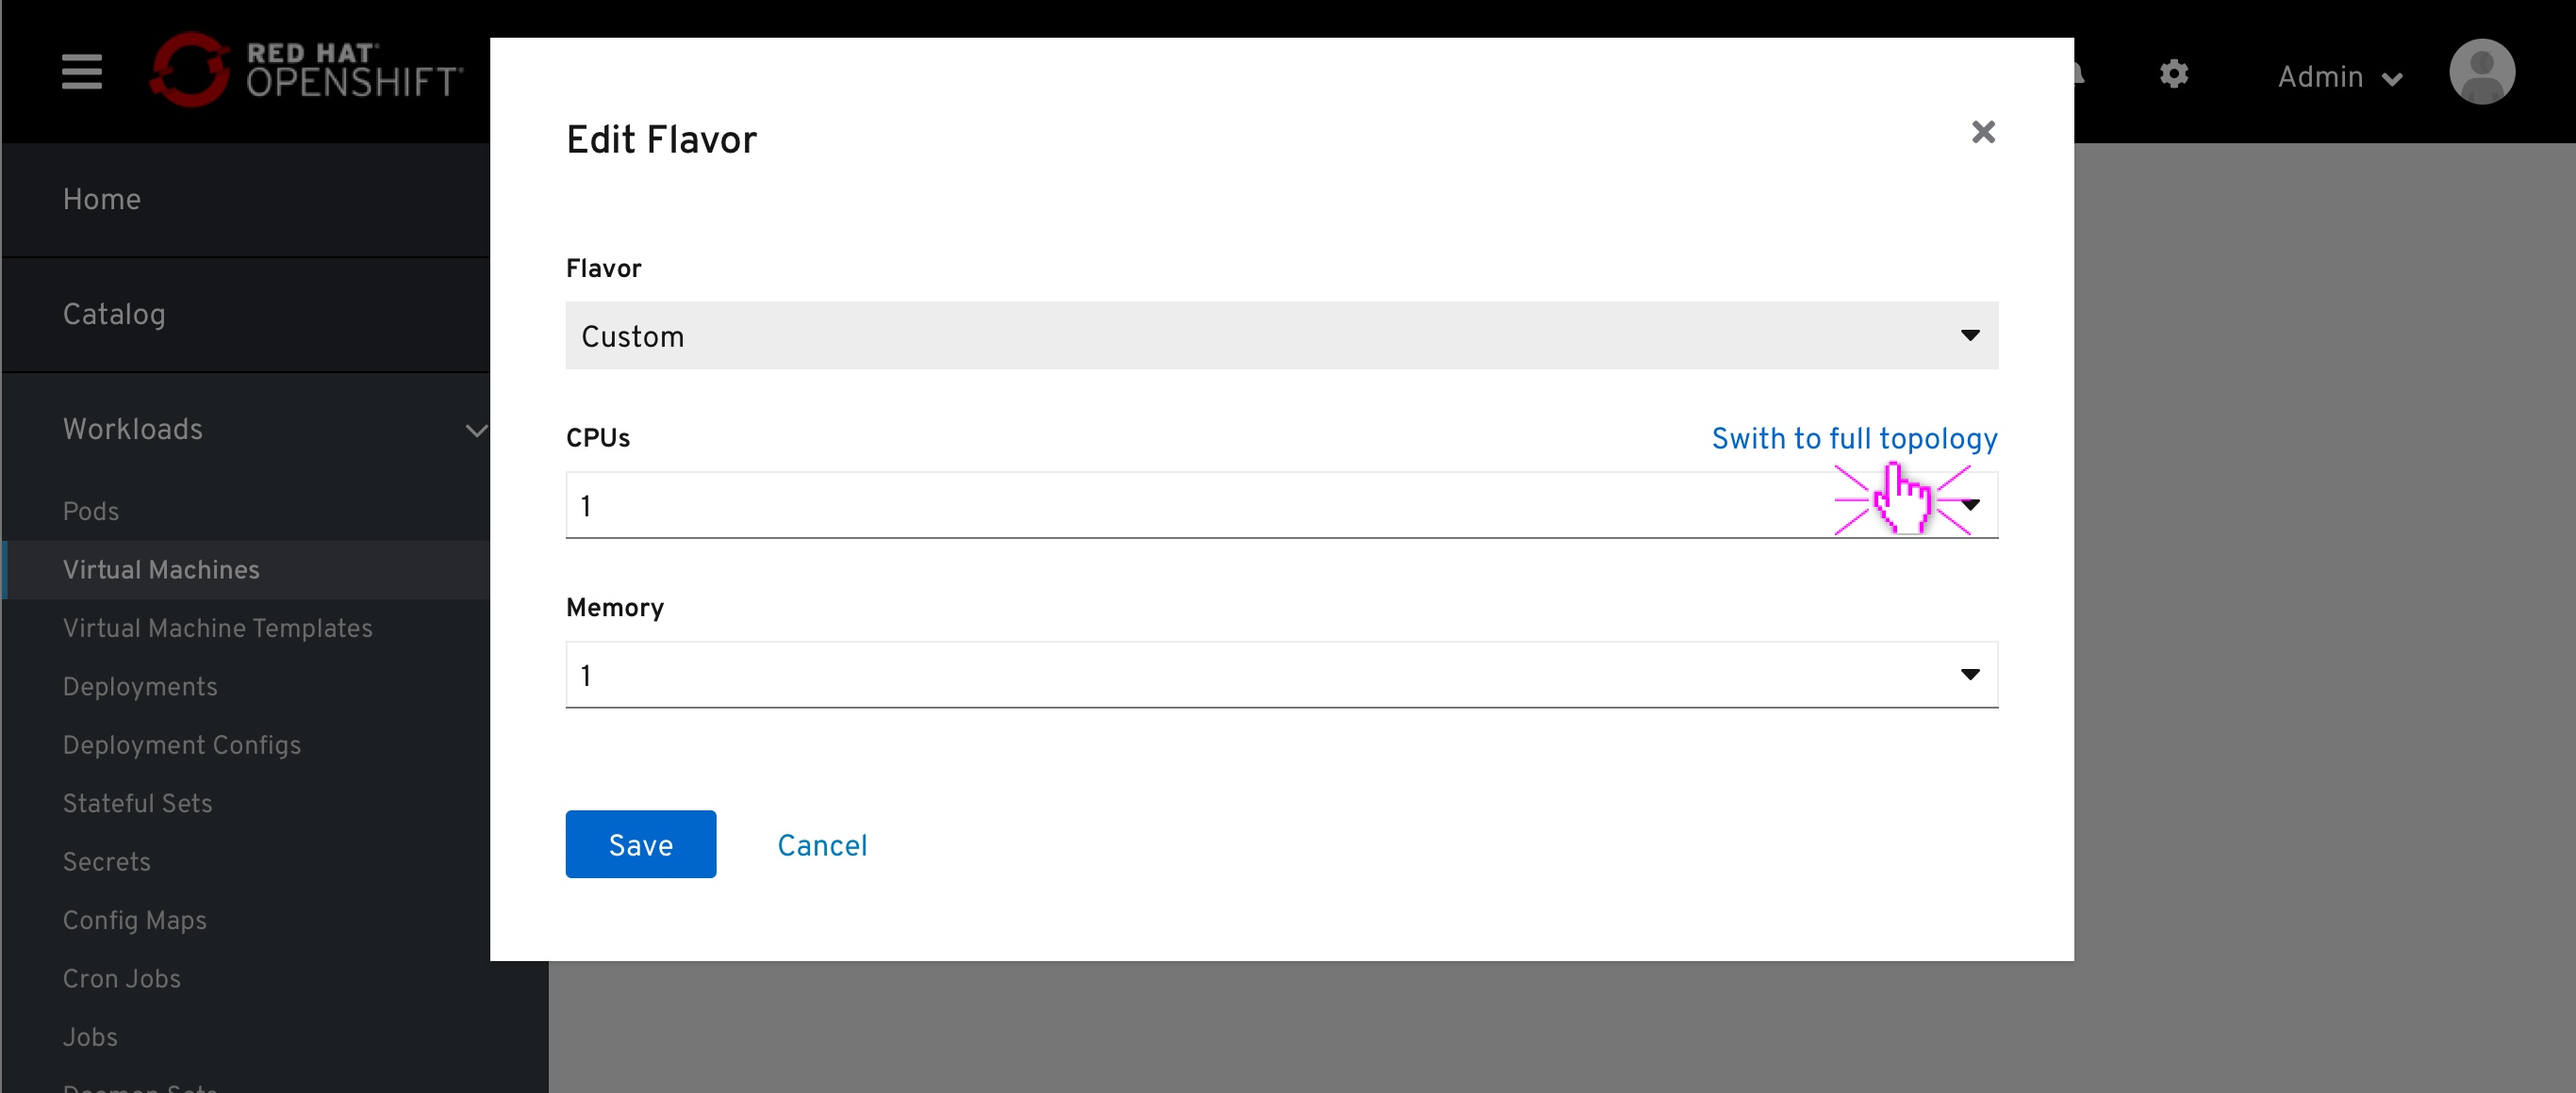
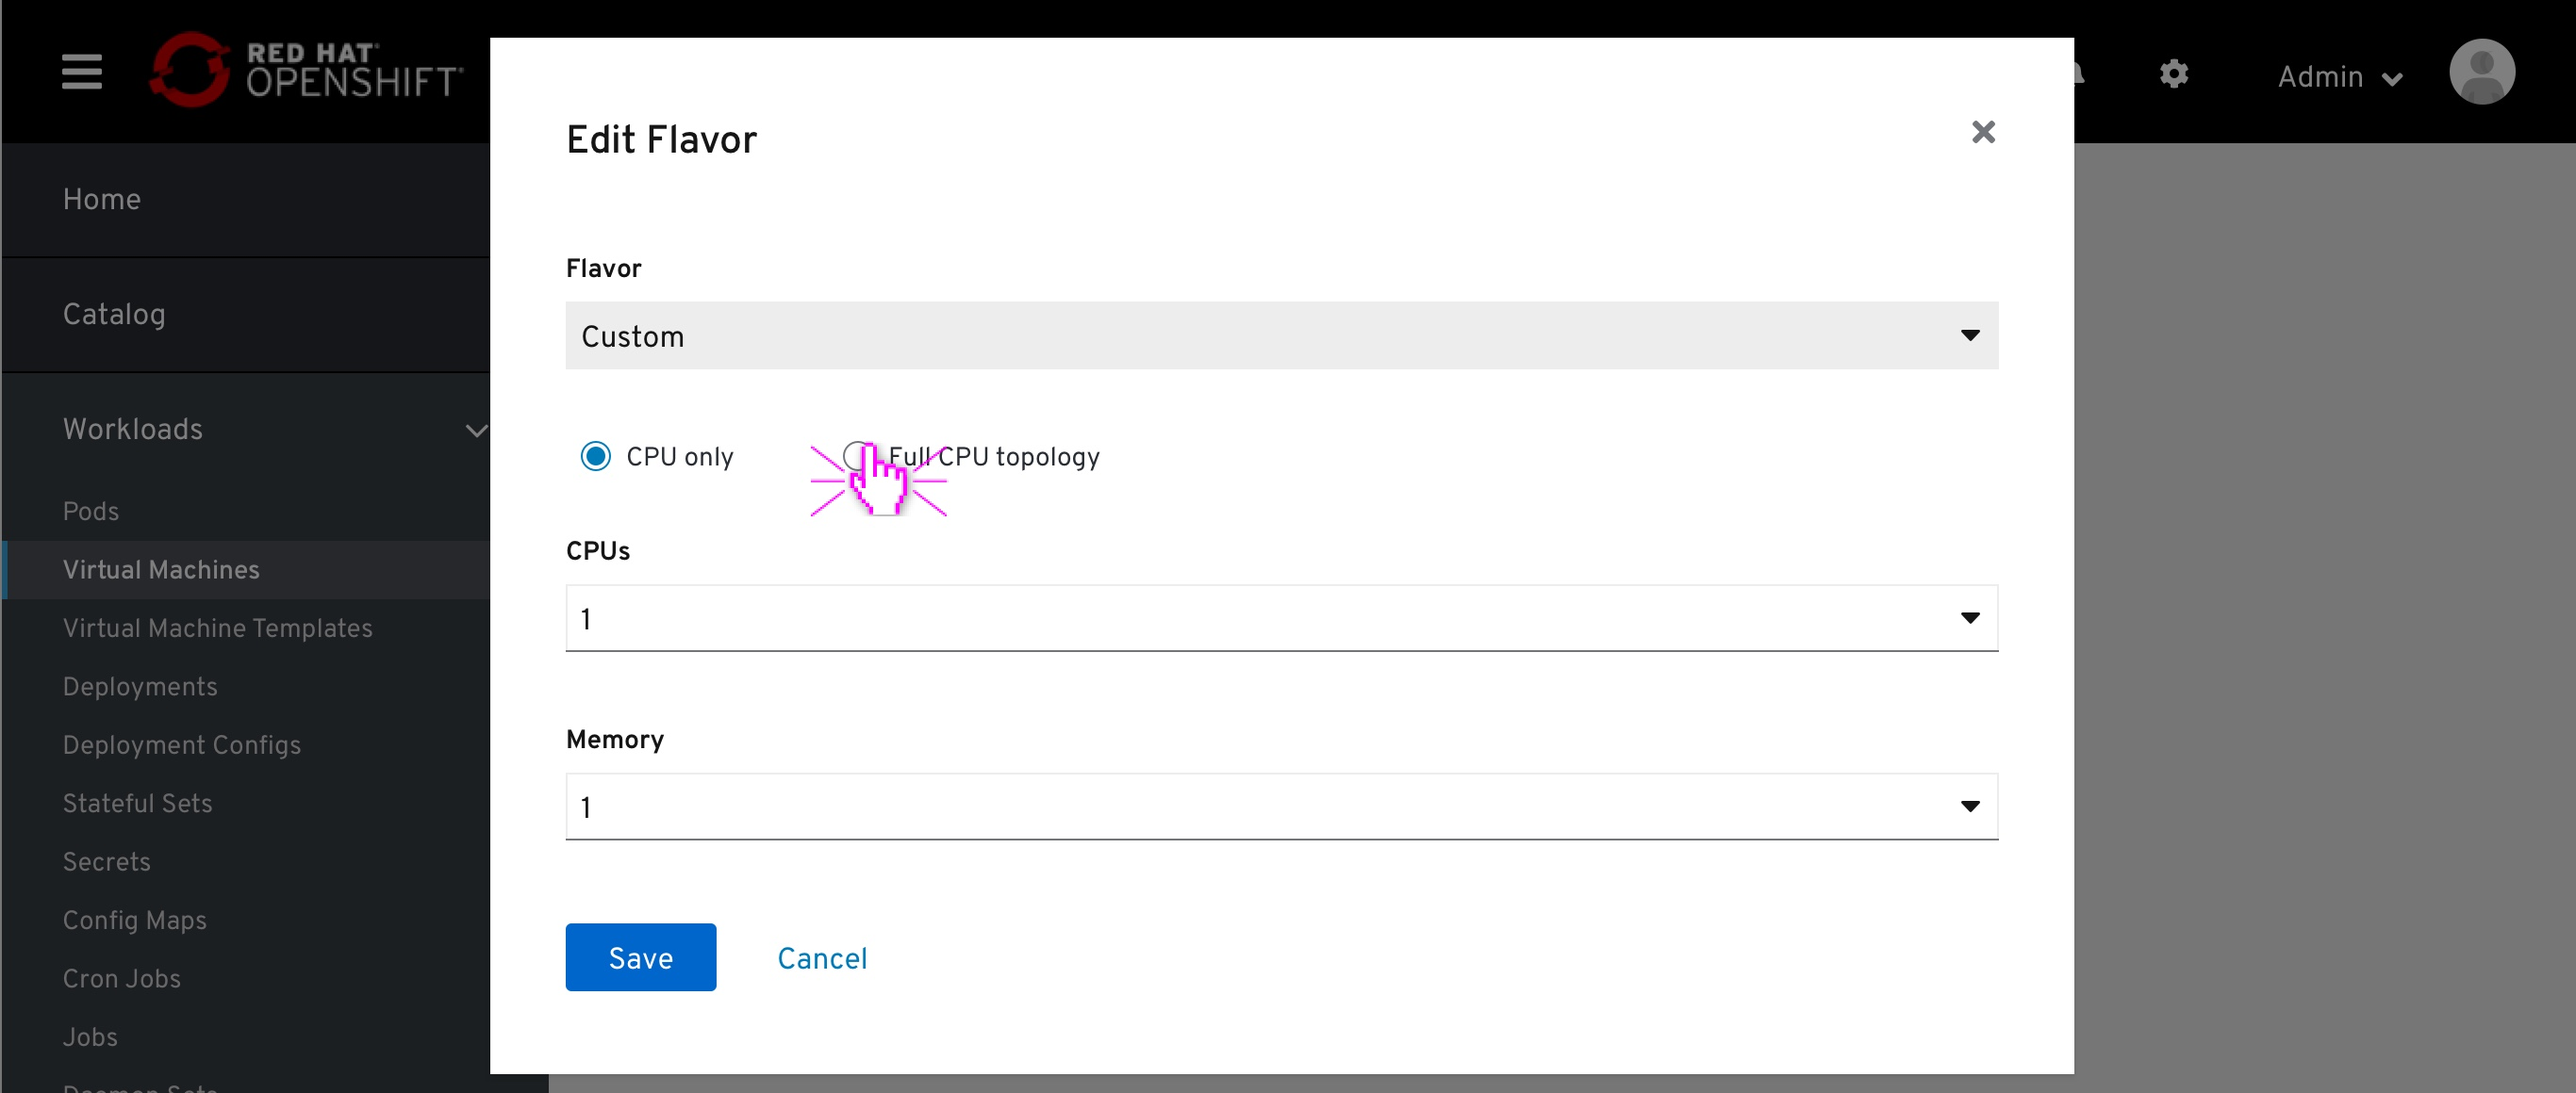
changing toggle to radiobuttons

diff --git a/designs/virtualization/4.5/Scheduling/Flavor/Flavor.md b/designs/virtualization/4.5/Scheduling/Flavor/Flavor.md
@@ -21,5 +21,5 @@ However, the values of the CPU is editable in dedicated fields below.
 
 ![vm page flavor modal](img/Flavor-1-1.jpg)
 By clicking 'Switch to full topology', the UI will toggle to display full topology options.
-At the bottom of the "full topology" field, there will be a 'CPUs in total' counter.
+At the bottom of the "full topology" field, there will be a 'CPUs in total' counter in a read only mode.
 Clicking the 'CPU only' will toggle back to the previous, collaped mode.
